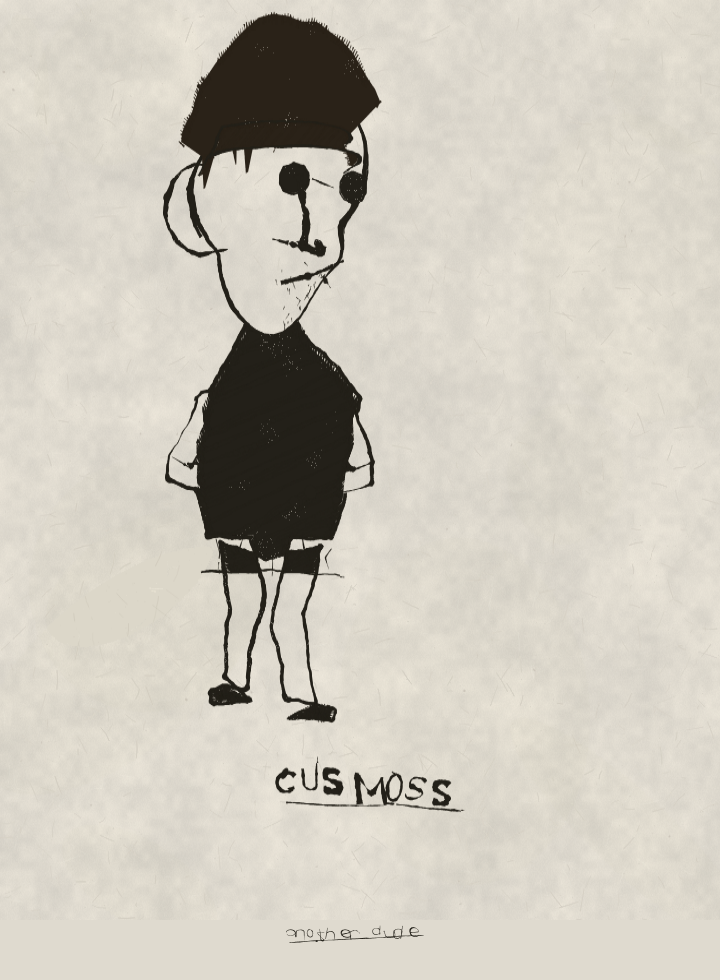
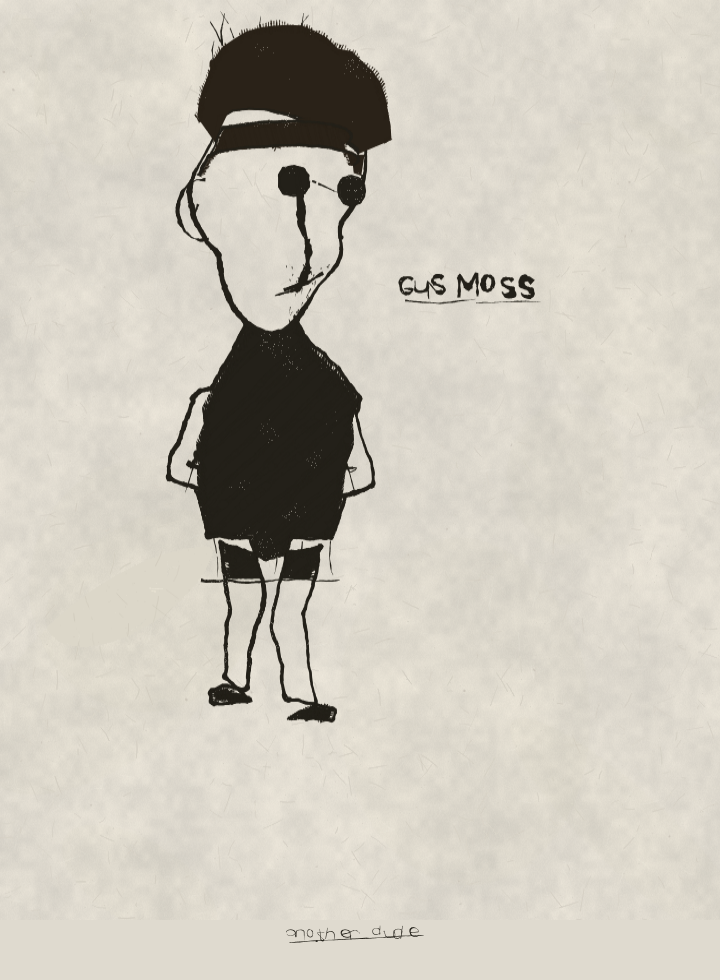
Gauntlet: the hem belongs to the torso, and the hand is not a ball joint
A critic said seven figures were seven builds of one body. Measured
before believing it: shoulders run 70-130px across the seven, hips
57-139, legs 142-263, shoulder-to-hip ratios 0.7 to 2.3. The builds do
vary. What did not was the hem - 175-219 whatever the build, because it
hung off the shoulders instead of the torso. Every garment ended at the
same height on every man, which is what made them read as one body. The
hem is now a fraction of its own torso, and the waist range is wide
enough to actually pinch or belly rather than always interpolating.

- Shirt stripes were ruled, evenly spaced and stopped dead at the
  outline. Each is now skewed independently, gaps vary, and a third run
  past the edge.
- The black dots at the wrists were the hands: small, with three or four
  knuckle ticks converging on the centre, which bunches into a knot that
  reads as a ball joint. One tick at most now, on a larger hand.
- The name is placed against the whole drawing rather than the body
  alone, which had let it start inside an ear on a wide head.
- Locks over the brow were wide enough to read as a cap collapsing over
  an eye.

Claude-Session: https://claude.ai/code/session_01RJWY9ufwnD6fjwW6ve4one

diff --git a/dude.js b/dude.js
@@ -1214,8 +1214,8 @@
       const fi = rng.i(1, front.length - 2);
       const p = front[fi];
       if (p.z !== undefined && p.z < 0.05) continue;
-      const drop = h._s * rng.f(0.1, 0.3);
-      const wdt = h._s * rng.f(0.035, 0.085);
+      const drop = h._s * rng.f(0.08, 0.24);
+      const wdt = h._s * rng.f(0.022, 0.05);
       const lean = rng.f(-0.5, 0.5);
       const tip = { x: p.x + drop * lean, y: p.y + drop };
       inkFill(c, rng, [
@@ -2023,10 +2023,10 @@
     dy /= d;
     const nx = -dy;
     const ny = dx;
-    const pr = r * rng.f(1.45, 2.0);
+    const pr = r * rng.f(1.7, 2.4);
     const c0 = { x: tip.x + dx * pr * 0.5, y: tip.y + dy * pr * 0.5 };
     const pts = [];
-    const nF = rng.i(3, 4);
+    const nF = rng.i(2, 3);
     for (let i = 0; i <= nF; i++) {
       const t = i / nF;
       const a = -Math.PI * 0.52 + t * Math.PI * 1.04;
@@ -2039,11 +2039,11 @@
     inkPoly(c, rng, [{ x: tip.x - nx * r * side, y: tip.y - ny * r }].concat(pts).concat([
       { x: tip.x + nx * r * side, y: tip.y + ny * r },
     ]), { w: s * 0.026, dry: 0.9, wobble: s * 0.025 });
-    // knuckle ticks instead of drawn fingers
-    for (let i = 1; i < nF; i++) {
-      if (rng.chance(0.4)) continue;
-      const q = pts[i];
-      inkLine(c, rng, q.x, q.y, c0.x + (q.x - c0.x) * 0.45, c0.y + (q.y - c0.y) * 0.45, s * 0.018);
+    // At most one knuckle tick. Several of them, on a hand this size, bunch
+    // into a solid knot that reads as a ball joint rather than a hand.
+    if (rng.chance(0.55)) {
+      const q = pts[rng.i(1, Math.max(1, nF - 1))];
+      inkLine(c, rng, q.x, q.y, c0.x + (q.x - c0.x) * 0.3, c0.y + (q.y - c0.y) * 0.3, s * 0.016);
     }
   }
 
@@ -2056,22 +2056,22 @@
     const kinds = [
       // stocky: wide, short, thick through the middle
       () => ({ shW: rng.f(1.14, 1.42), hipW: rng.f(0.92, 1.18), torso: rng.f(1.6, 1.9),
-               legs: rng.f(1.3, 1.62), waist: rng.f(1.02, 1.16), armW: rng.f(0.2, 0.25) }),
+               legs: rng.f(1.3, 1.62), waist: rng.f(1.06, 1.26), armW: rng.f(0.2, 0.25) }),
       // lanky: narrow, long, straight
       () => ({ shW: rng.f(0.7, 0.9), hipW: rng.f(0.48, 0.66), torso: rng.f(2.2, 2.6),
-               legs: rng.f(2.1, 2.55), waist: rng.f(0.86, 0.98), armW: rng.f(0.13, 0.17) }),
+               legs: rng.f(2.1, 2.55), waist: rng.f(0.74, 0.92), armW: rng.f(0.13, 0.17) }),
       // pot: narrow up top, heavy low down
       () => ({ shW: rng.f(0.8, 1.0), hipW: rng.f(1.0, 1.3), torso: rng.f(1.85, 2.15),
-               legs: rng.f(1.5, 1.85), waist: rng.f(1.12, 1.34), armW: rng.f(0.17, 0.22) }),
+               legs: rng.f(1.5, 1.85), waist: rng.f(1.2, 1.5), armW: rng.f(0.17, 0.22) }),
       // taper: broad shoulders down to nothing
       () => ({ shW: rng.f(1.2, 1.5), hipW: rng.f(0.52, 0.72), torso: rng.f(1.95, 2.3),
-               legs: rng.f(1.85, 2.2), waist: rng.f(0.8, 0.94), armW: rng.f(0.18, 0.23) }),
+               legs: rng.f(1.85, 2.2), waist: rng.f(0.66, 0.86), armW: rng.f(0.18, 0.23) }),
       // slight: small all over, short limbs
       () => ({ shW: rng.f(0.72, 0.92), hipW: rng.f(0.56, 0.76), torso: rng.f(1.55, 1.85),
-               legs: rng.f(1.35, 1.7), waist: rng.f(0.92, 1.06), armW: rng.f(0.13, 0.18) }),
+               legs: rng.f(1.35, 1.7), waist: rng.f(0.86, 1.1), armW: rng.f(0.13, 0.18) }),
       // ordinary, so the sheet has a baseline
       () => ({ shW: rng.f(0.92, 1.14), hipW: rng.f(0.66, 0.88), torso: rng.f(1.9, 2.25),
-               legs: rng.f(1.7, 2.05), waist: rng.f(0.94, 1.08), armW: rng.f(0.16, 0.21) }),
+               legs: rng.f(1.7, 2.05), waist: rng.f(0.84, 1.16), armW: rng.f(0.16, 0.21) }),
     ];
     return rng.pick(kinds)();
   }
@@ -2318,8 +2318,11 @@
     const outline = core;
 
     // ---- clothes cut into the figure ----
-    const hemY = shY + s * rng.f(1.25, 1.55);
-    const sleeveT = rng.f(0.42, 0.72);
+    // Pinned to the shoulders, the hem landed at the same height whatever the
+    // build — measured across seven figures it moved 1.25x while the torso
+    // moved 1.56x and the legs 1.85x. A garment belongs to its torso.
+    const hemY = shY + (hipY - shY) * rng.f(0.82, 1.34);
+    const sleeveT = rng.f(0.36, 0.66);
     const cuff = (S, side) => {
       const i = Math.round(sleeveT * (S.length - 1));
       const a = edgeOf(S, armR, -1, side < 0 ? 11 : 83)[i];
@@ -2422,12 +2425,15 @@
       const pitch = s * rng.f(0.11, 0.3);
       const heavy = s * rng.f(0.022, 0.07);
       if (clothes.pattern === "stripe") {
-        for (let y = shY + s * rng.f(0.04, 0.2); y < hemY; y += pitch) {
+        // skewed independently, gaps varying, a third running past the edge
+        for (let y = shY + s * rng.f(0.04, 0.2); y < hemY; y += pitch * rng.f(0.6, 1.4)) {
+          const skew = rng.f(-0.14, 0.14) * shW;
+          const over = rng.chance(0.34) ? rng.f(0.1, 0.45) : 0;
           inkPoly(c, rng, [
-            { x: cx - shW * 1.8, y },
-            { x: cx, y: y + rng.f(-3, 4) },
-            { x: cx + shW * 1.8, y: y + rng.f(-4, 4) },
-          ], { w: heavy, dry: 0.5, wobble: s * 0.03 });
+            { x: cx - shW * (1.2 + over), y: y - skew },
+            { x: cx + rng.f(-6, 6), y: y + rng.f(-3, 4) },
+            { x: cx + shW * (1.2 + over), y: y + skew + rng.f(-4, 4) },
+          ], { w: heavy * rng.f(0.7, 1.3), dry: 0.5, wobble: s * 0.035 });
         }
       } else if (clothes.pattern === "vstripe") {
         for (let x = cx - shW * 1.3; x < cx + shW * 1.3; x += pitch * rng.f(0.75, 1.3)) {
@@ -2832,6 +2838,11 @@
       nameX = Math.max(body.maxX + s * rng.f(0.1, 0.32), cx + s * 1.15);
       nameY = cy + s * rng.f(0.0, 0.55);
     }
+    // clear the whole drawing. Measuring against the body alone let the name
+    // start inside an ear on a wide head.
+    let inkRight = body.maxX;
+    for (const q of hull) if (q.x > inkRight) inkRight = q.x;
+    if (spot !== "feet") nameX = Math.max(nameX, inkRight + s * rng.f(0.12, 0.34));
     const nameW = size * (String(dude.name).length * 0.92 + 0.6);
     if (spot !== "feet" && nameX + nameW > w - 12) {
       // no room in the margin, so it goes under the feet

diff --git a/progress.html b/progress.html
@@ -135,6 +135,18 @@
   </table>
   <p>The first attempt matched on tooth and was 26% over on mottle — which is exactly what "blotchy" looks like. Three octaves rebalanced rather than one amplitude turned down.</p>
 
+  <h3>The bug behind “the same black wedge at different scales and rotations”</h3>
+  <p>Four critic rounds reported this, and every time it was taken as a variety problem and answered with more variety. It was not. It was one geometry bug firing on every turned head.</p>
+  <p>The crown arc selected silhouette points lying <em>above the chord</em> between the two temples. Head-on that is the top of the skull, which is right. On a hard turn both temples land on the same side of the head, the chord swings near-vertical, and “above it” becomes half the face — which the hair then fills in solid. Every high-yaw head on every plate was wearing the same black slab, and it looked exactly like one shape being reused.</p>
+  <p>The arc is now walked round by angle over the crown, which is indifferent to the pose. That exposed a second fault underneath: the hairline’s full sweep wraps round the back of the skull, where its ends project <em>inward</em>, so they were being used as the temples and left the arc a seven-point sliver. The hairline is now trimmed to the stretch actually on the front of the skull first. Two more of the same family: the headband built its two edges by culling each ring independently by depth, so on a turn they ended in different places and the polygon between them crossed itself and flooded the face; and a hat peak pinned at z=1.3 swung a full head-radius sideways under yaw and laid a slab across the eyes.</p>
+
+  <h3>“Seven builds, one body.”</h3>
+  <p>Measured before believing it, and the critic was wrong on the headline and right underneath it. Across seven figures the builds do vary — shoulders 70→130px, hips 57→139, legs 142→263, with shoulder-to-hip ratios from 0.7 to 2.3. What did <em>not</em> vary was the hem: 175→219 whatever the build, because it was pinned to the shoulders rather than to the torso. Every garment ended at the same height on every man, which is what made seven builds read as one. The hem is now a fraction of the torso it sits on.</p>
+  <p>Bodies also now come in kinds the way skulls do — stocky, lanky, pot, taper, slight, ordinary — with width, length, arm thickness and waist profile moving together, plus four kinds of shoe and a stance that can be bowed, knock-kneed, wide or planted.</p>
+
+  <h3>“Black dots at the wrist — ball joints on a wooden figure.”</h3>
+  <p>True, and it was the hand: drawn small with three or four knuckle ticks converging on its centre, which bunches into a solid knot. One tick at most now, on a hand half again as large.</p>
+
   <h2>Still open</h2>
   <ul>
     <li>Every round, the critics still identify our sheets and still rank both Mannay plates above them. The gap has narrowed — one round put ours above one of his — but he has not been beaten.</li>
